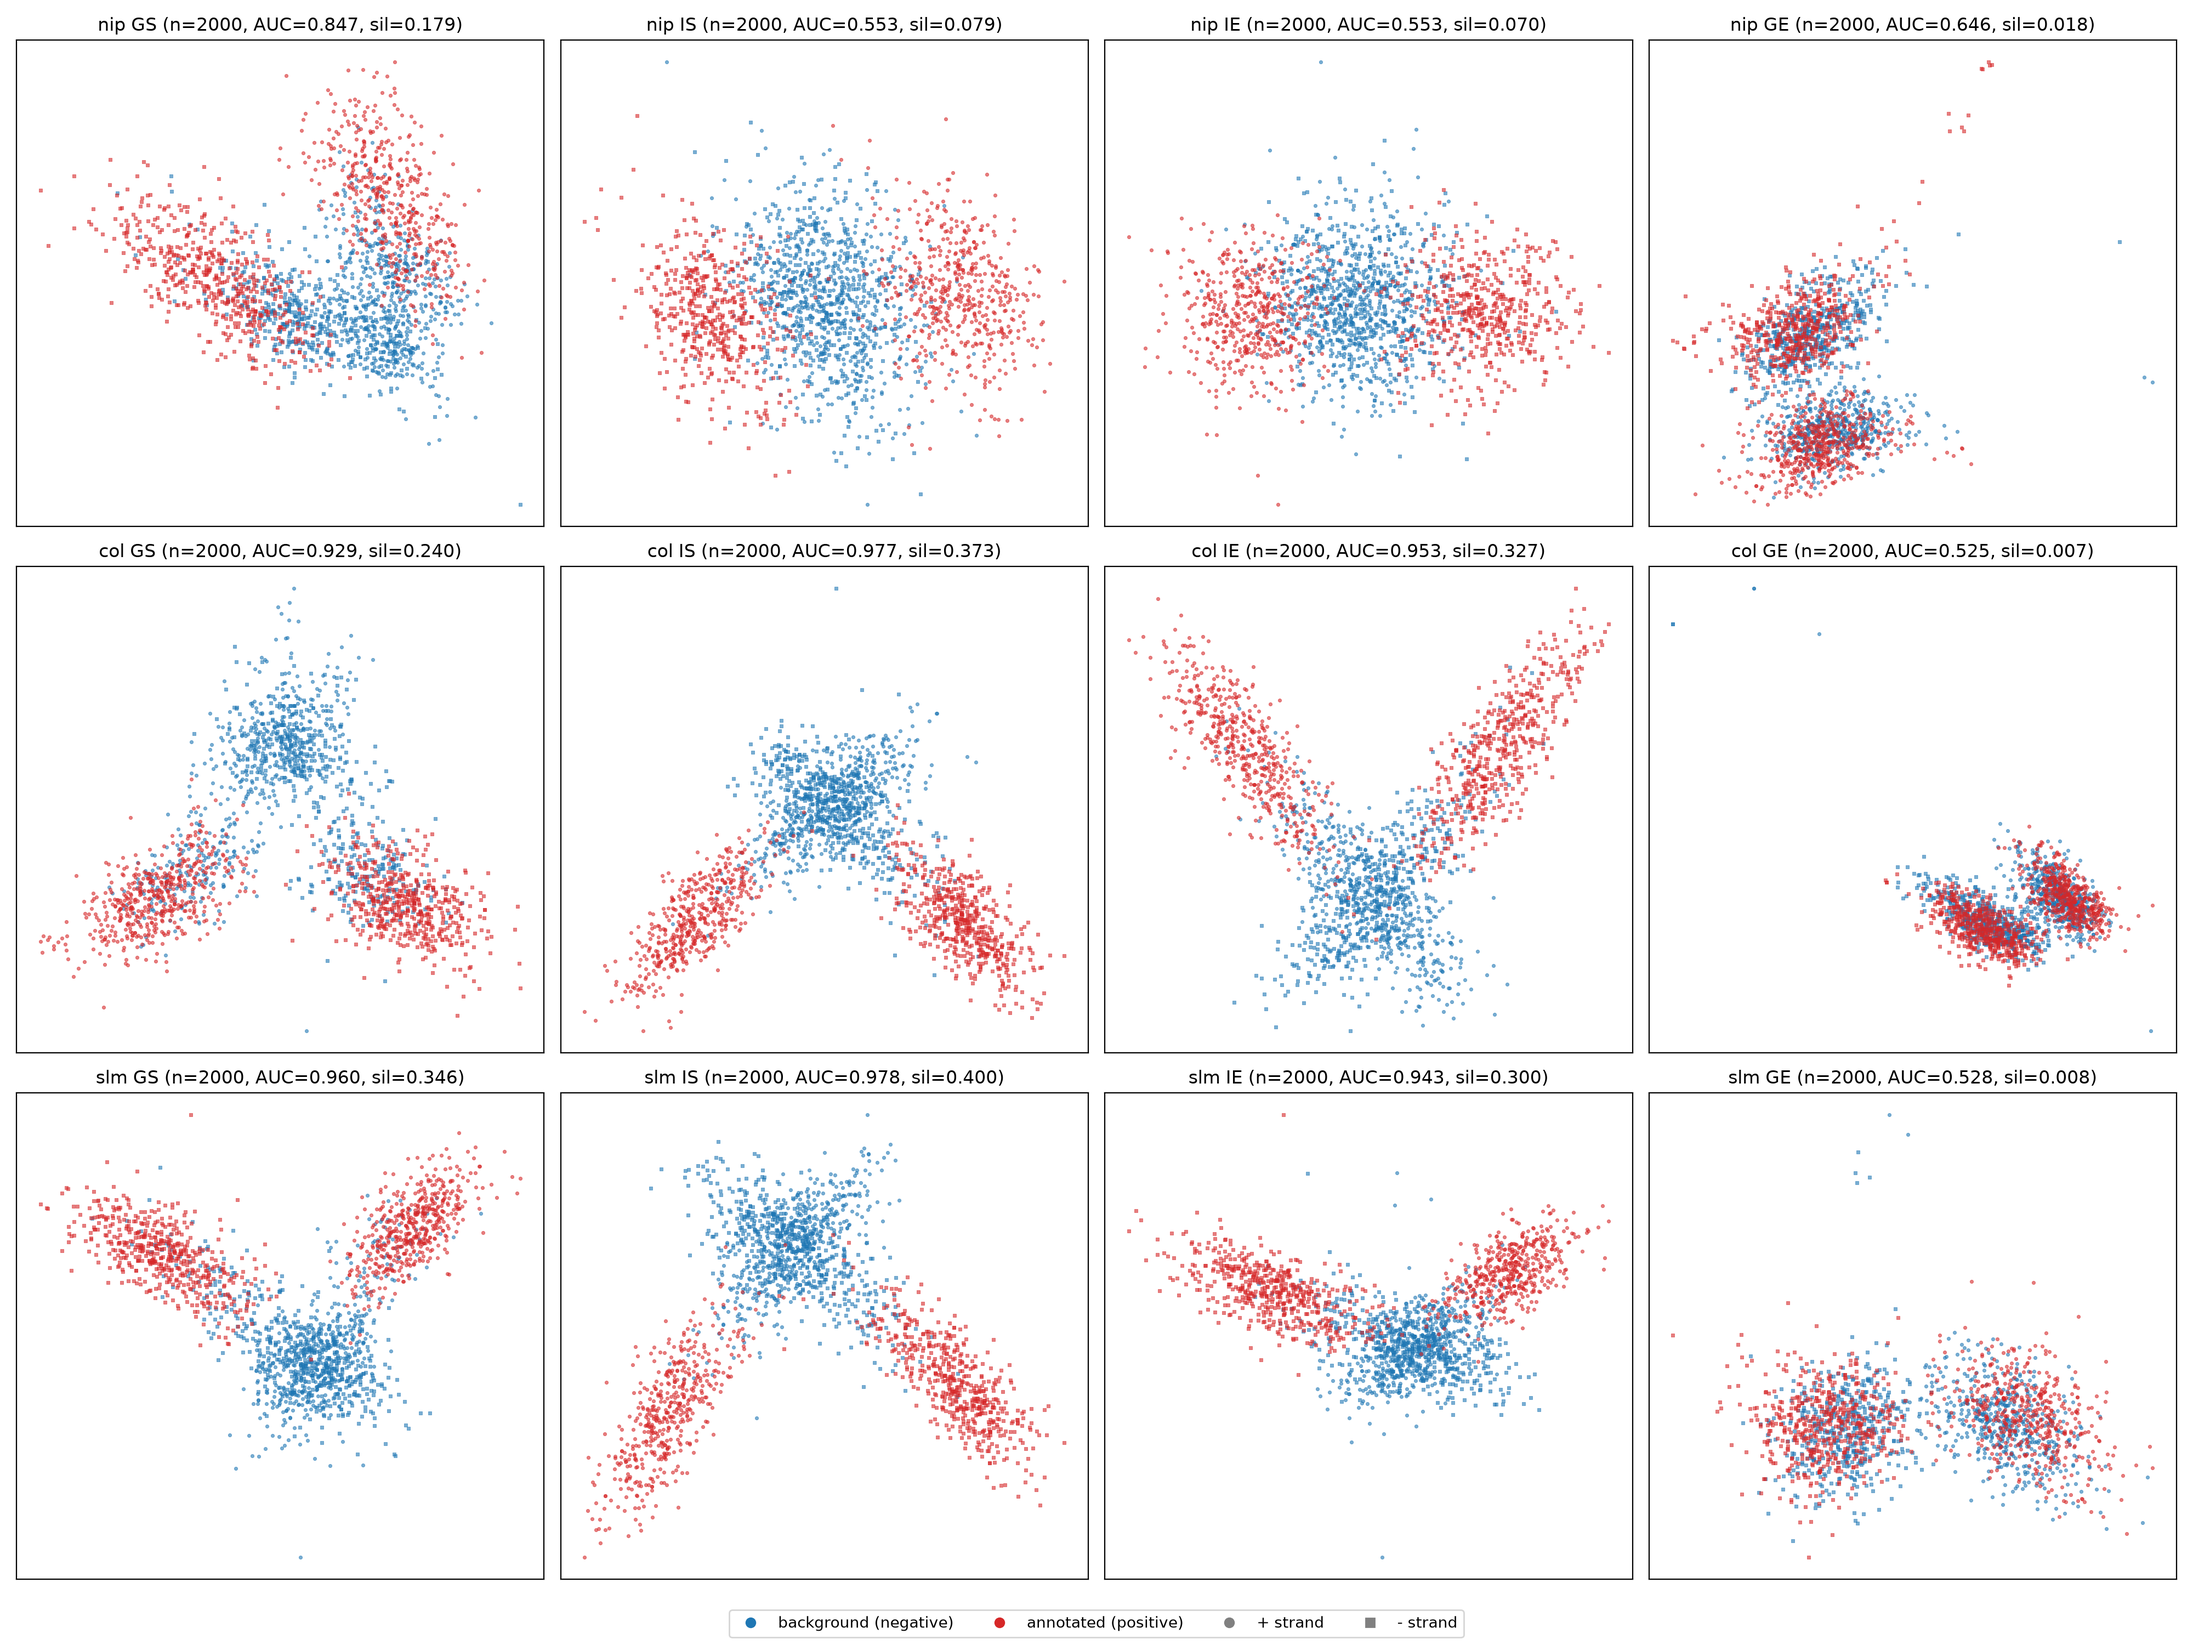
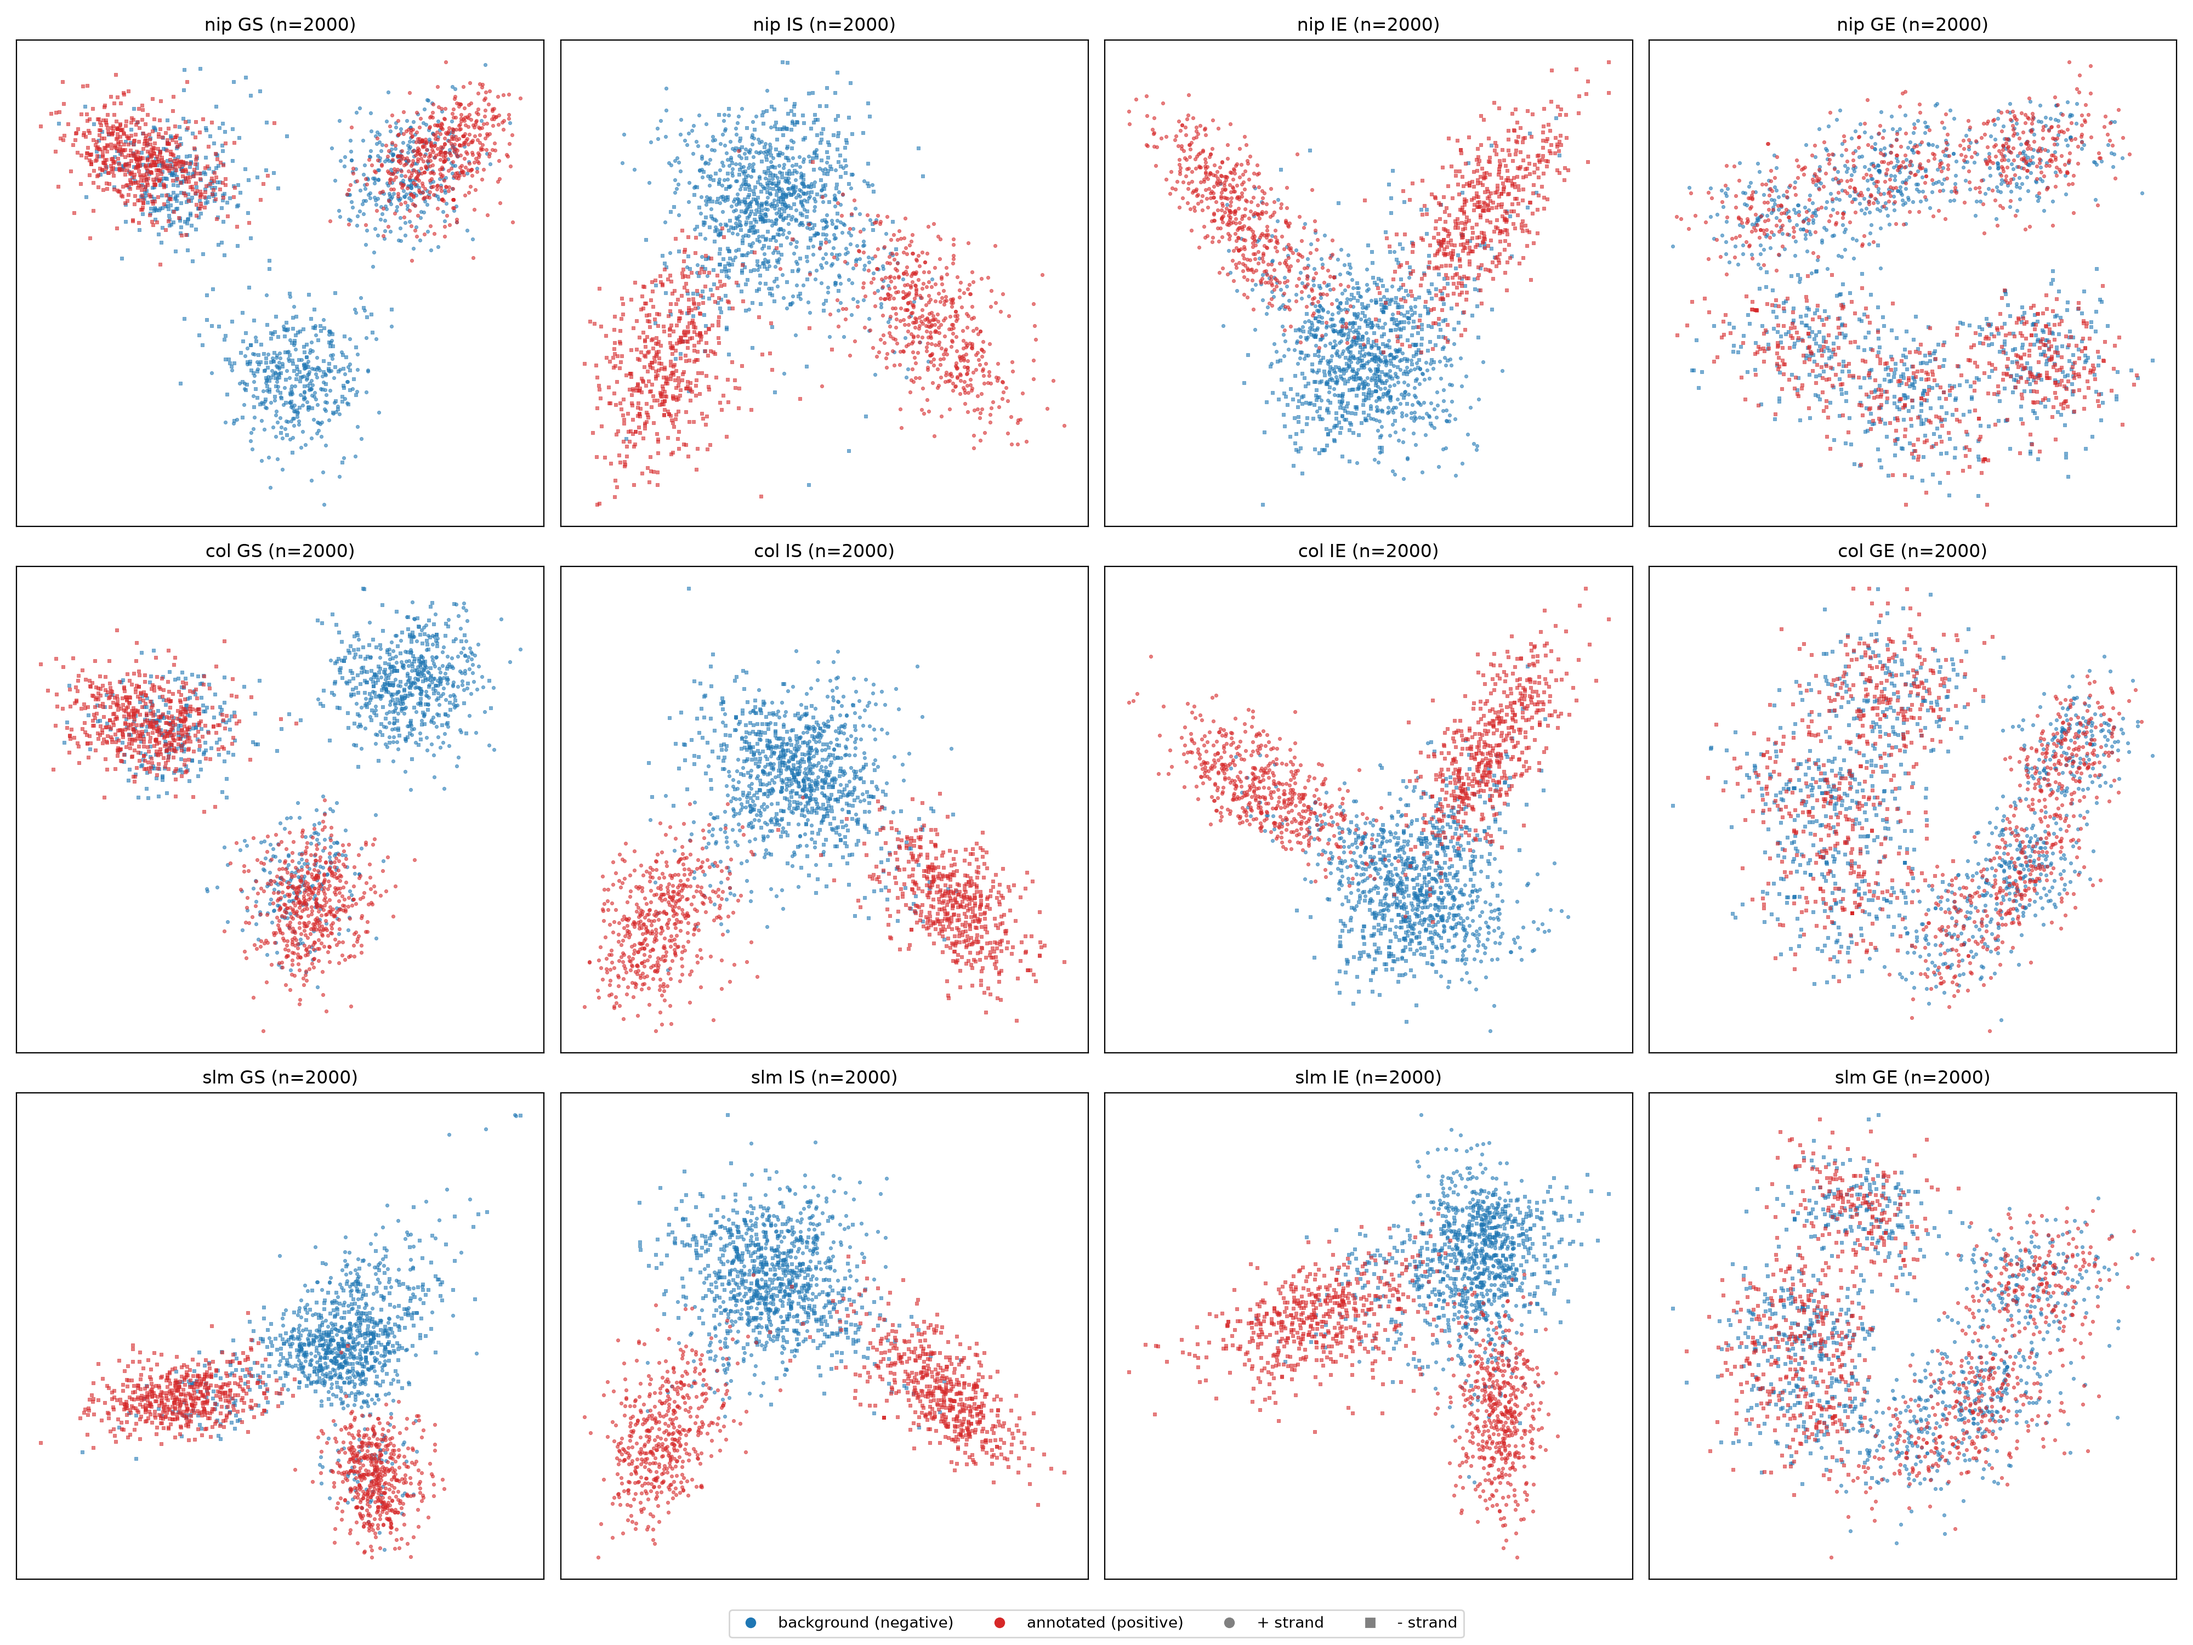
재현이..된다!!! 이거 대체 무슨 의미지??? 놀라운 데이터지만 불안아기도 해

diff --git a/cwt_pca.py b/cwt_pca.py
@@ -1,17 +1,4 @@
 #!/usr/bin/env python3
-"""Per-kind PCA of windowed CWT features.
-
-For each motif kind (GS, IS, IE, GE) the script separates annotated sites
-(positive) from occurrences of the same motif that are not annotated
-(background).  The three chr5 datasets are rendered as a 3 x 4 grid
-(rows = datasets, columns = motif kinds); colour encodes positive/background
-and marker shape encodes strand (+ circle, - square).
-
-CWT responses are computed with chunked FFT convolution over the sequence,
-and only the requested candidate/window positions are kept.  The 2-D view is
-the first two PCA components.
-"""
-
 from __future__ import annotations
 
 import argparse
@@ -114,7 +101,9 @@ def morlet_integral(lower: float, upper: float, w0: float = W0) -> complex:
     return norm * integral
 
 
-def build_kernel(dilation: float, w0: float = W0) -> NDArray[np.complex128]:
+def build_kernel(period: float, w0: float = W0) -> NDArray[np.complex128]:
+    """Morlet kernel whose oscillation period is ``period`` base pairs."""
+    dilation = period * w0 / (2 * math.pi)
     radius = math.ceil(MORLET_LIMIT * dilation + 0.5)
     kernel = np.zeros(2 * radius + 1, dtype=np.complex128)
     for tap in range(len(kernel)):
@@ -426,19 +415,10 @@ def build_candidates(
 
 
 class CwtFeatureBank:
-    """Chunked FFT convolution of the sequence with Morlet wavelets.
-
-    Each mapping contributes magnitude (``re^2 + im^2``), real and imaginary
-    parts.  Several ``w0`` values add wavelets with different centre
-    frequencies.  The sequence is processed in chunks; only the requested
-    positions inside each chunk are kept, so the full response map is never
-    materialised.
-    """
-
     def __init__(
         self,
         sequence: NDArray[np.uint8],
-        periods: tuple[int, ...],
+        periods: tuple[float, ...],
         w0s: tuple[float, ...],
         chunk: int = 100_000,
     ):
@@ -626,7 +606,9 @@ def _dataset_panels(
         candidates, args.max_positives, args.negatives_per_positive, rng
     )
     bank = CwtFeatureBank(codes[name], tuple(args.periods), tuple(args.w0), args.chunk)
-    offsets = np.arange(-args.window_radius, args.window_radius + 1)
+    offsets = np.arange(
+        -args.window_radius, args.window_radius + 1, args.window_step
+    )
     positions = (candidates.positions[index][:, None] + offsets[None, :]).ravel()
     strands = np.repeat(candidates.strands[index], len(offsets))
     matrix = bank.gather(positions, strands).reshape(len(index), -1)
@@ -653,11 +635,23 @@ def _dataset_panels(
 def main(argv: list[str] | None = None) -> int:
     parser = argparse.ArgumentParser()
     parser.add_argument("--output", default="cwt_pca.png")
-    parser.add_argument("--periods", type=int, nargs="+", default=[2, 3, 4, 6, 10])
+    parser.add_argument(
+        "--periods",
+        type=float,
+        nargs="+",
+        default=[2, 3, 4, 6, 7],
+        help="Morlet periods in base pairs",
+    )
     parser.add_argument("--w0", type=float, nargs="+", default=[4.0, 6.0, 8.0])
-    parser.add_argument("--max-positives", type=int, default=1000)
+    parser.add_argument("--max-positives", type=int, default=2000)
     parser.add_argument("--negatives-per-positive", type=float, default=1.0)
-    parser.add_argument("--window-radius", type=int, default=500)
+    parser.add_argument("--window-radius", type=int, default=10)
+    parser.add_argument(
+        "--window-step",
+        type=int,
+        default=1,
+        help="stride between window offsets in bp",
+    )
     parser.add_argument("--chunk", type=int, default=100_000)
     parser.add_argument("--seed", type=int, default=0)
     args = parser.parse_args(argv)
